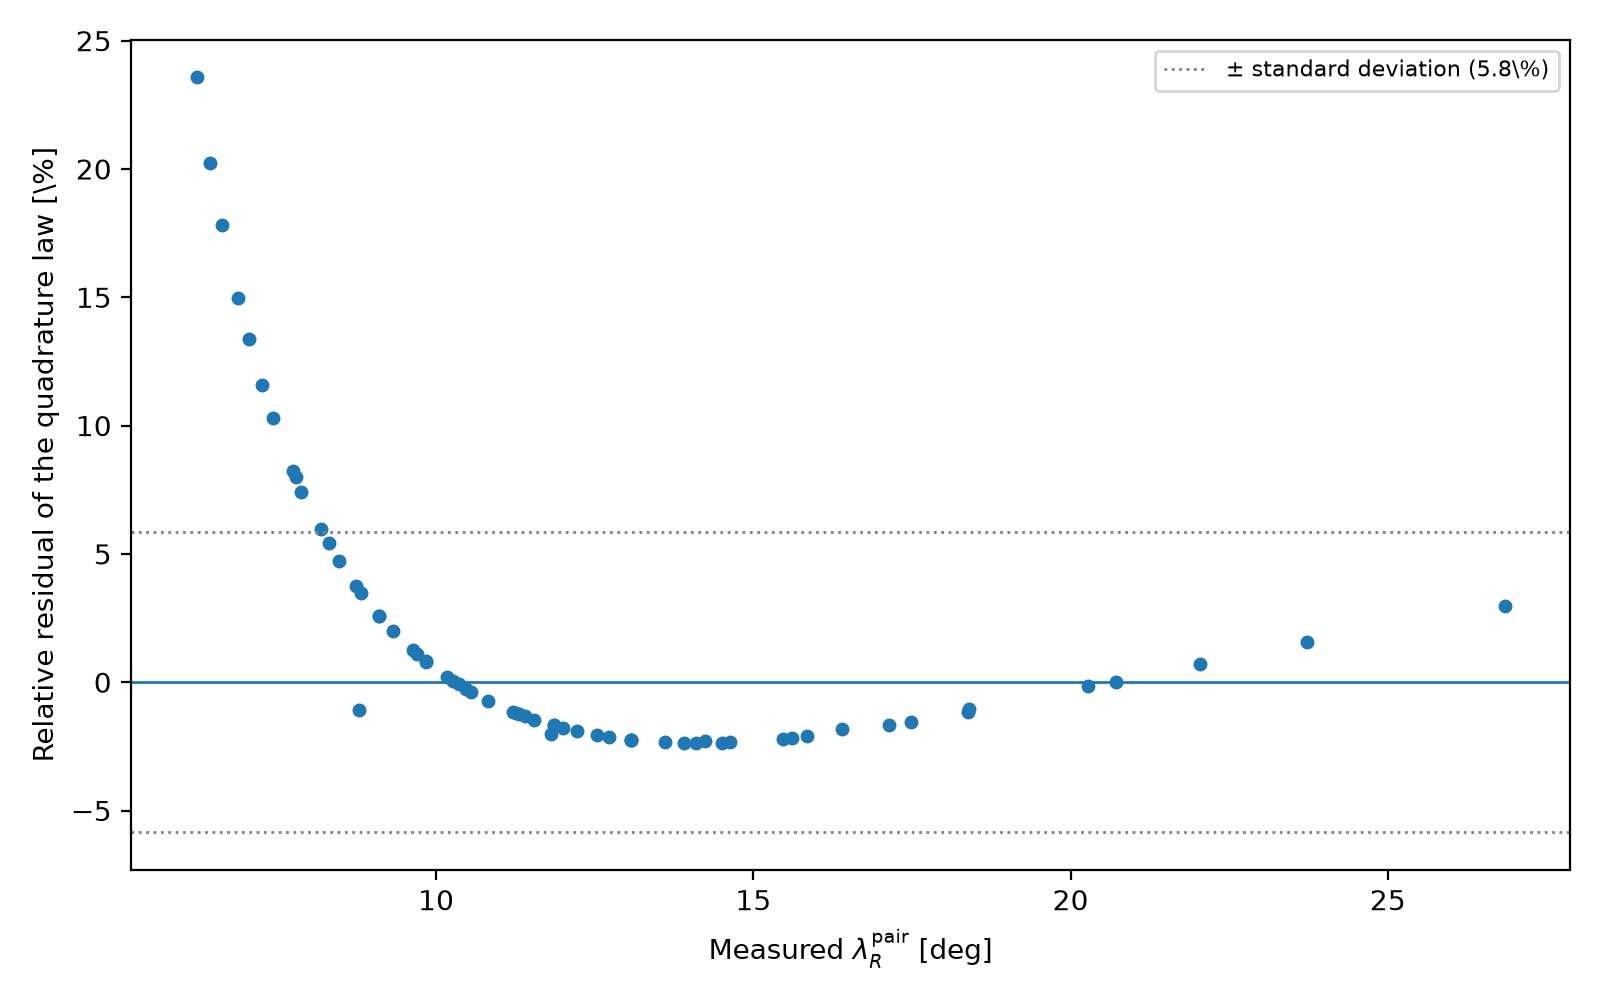
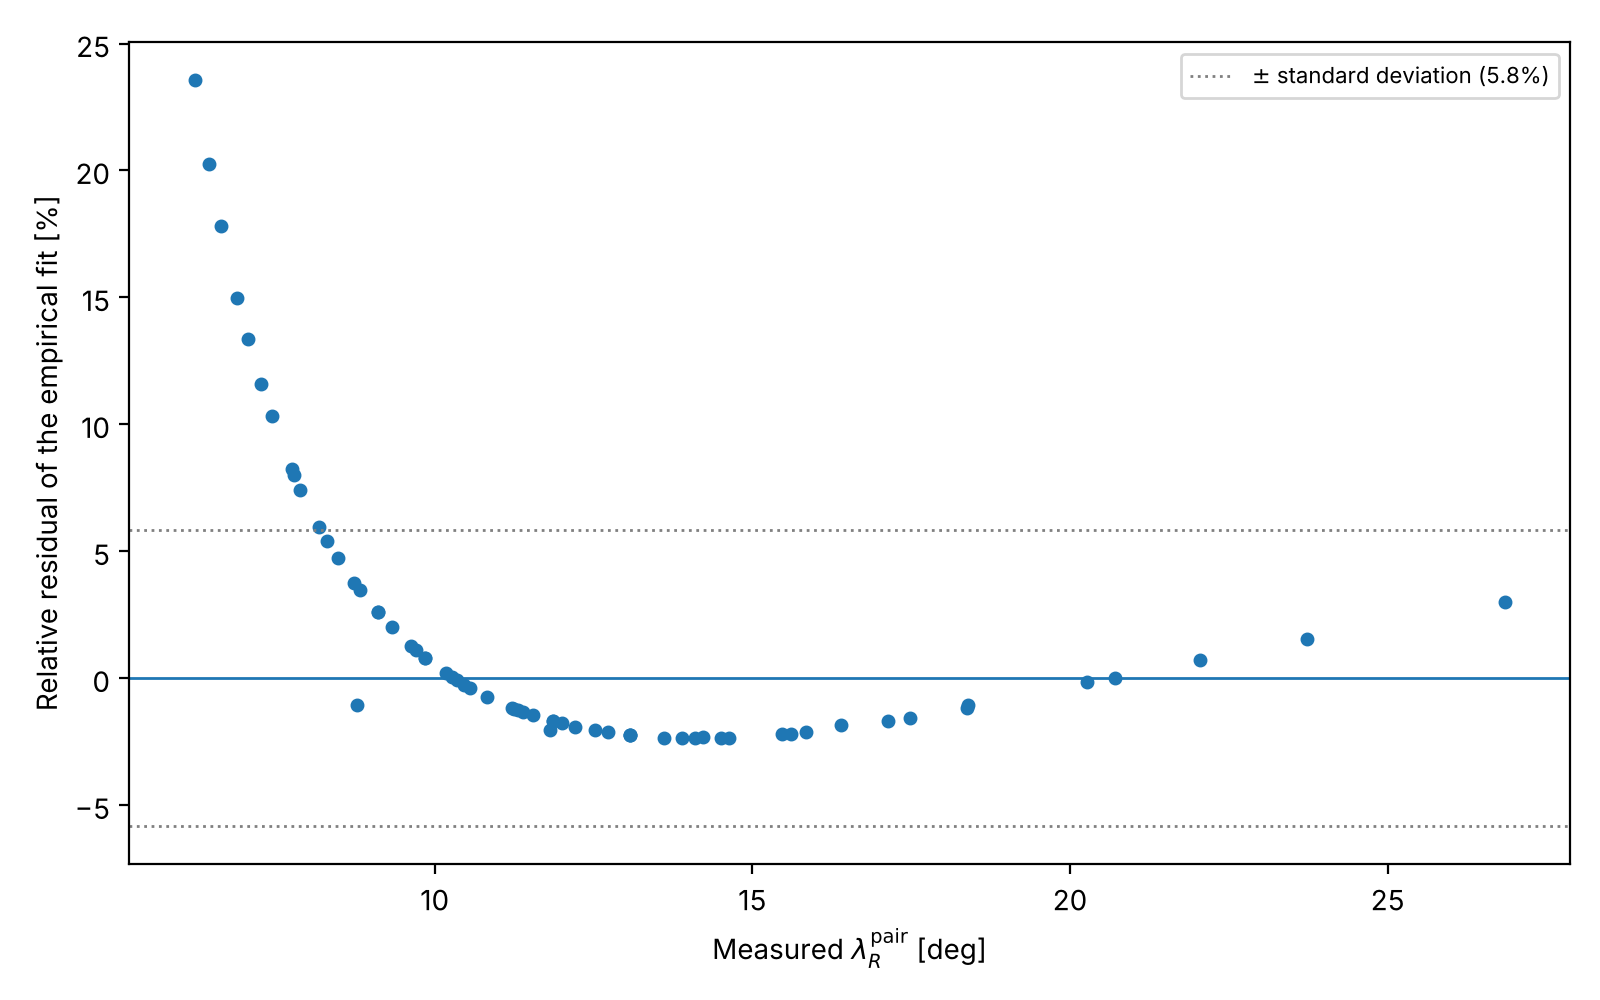
Align the scaling-law figure labels with the manuscript
Figure P2 now uses the wording of the manuscript's final Figure 8:
"empirical fit" with a "≃" sign instead of "quadrature law" with "=",
"one-to-one reference" instead of "one-to-one (pure transport)", and an
x-axis label "Transport scale λ_tr [deg]", since λ_tr is defined in
degrees in the manuscript. Figure P3's residual label follows suit, and
its literal "\%" (shown as a backslash outside maths mode) is now a
plain "%". The result tables are byte-identical after the rerun; only
these two figures change.

The inflow-memory report quotes the directly minimised smallest spectral
radius, 0.082, instead of the sampled-grid value 0.083.

Claude-Session: https://claude.ai/code/session_01PmgudpFb3qQz1S9TE53gMs

Changed region(s): [[0.0, 0.031, 1.0, 0.93], [0.4375, 0.93, 0.625, 0.961], [0.1875, 0.527, 0.2188, 0.558]]

diff --git a/parameter_space_analysis.py b/parameter_space_analysis.py
@@ -224,26 +224,28 @@ if __name__ == "__main__":
     plt.plot(lamR_est[good], lamR_map[good], "o", markersize=4,
              label="measured (adjoint kernel)")
     xs = np.linspace(0.0, np.nanmax(lamR_est) * 1.05, 200)
+    # Labels follow the manuscript's Figure 8: an empirical fit, and the
+    # angular transport scale expressed in degrees.
     plt.plot(xs, np.sqrt(C2 * xs**2 + w02), "--",
-             label=(fr"quadrature law: $(\lambda_R^{{\rm pair}})^2 = ({C_quad:.2f})^2\,\lambda_{{\rm tr}}^2"
+             label=(fr"empirical fit: $(\lambda_R^{{\rm pair}})^2 \simeq ({C_quad:.2f})^2\,\lambda_{{\rm tr}}^2"
                     fr" + ({w0_quad:.1f}^\circ)^2$"))
-    plt.plot(xs, xs, ":", linewidth=1, color="0.6", label="one-to-one (pure transport)")
-    plt.xlabel(r"Transport scale $\lambda_{\rm tr}=\sqrt{\eta/(2u_0R_\odot)}$ [deg]")
+    plt.plot(xs, xs, ":", linewidth=1, color="0.6", label="one-to-one reference")
+    plt.xlabel(r"Transport scale $\lambda_{\rm tr}$ [deg]")
     plt.ylabel(r"Measured $\lambda_R^{\rm pair}$ [deg]")
     plt.legend(fontsize=8)
     plt.tight_layout()
     plt.savefig(os.path.join(OUTDIR, "figP2_lambdaR_scaling.png"), dpi=200)
     plt.close()
 
-    # P3: relative residuals of the quadrature law
+    # P3: relative residuals of the empirical fit
     plt.figure(figsize=(8, 5))
     plt.plot(lamR_map[good], 100.0 * resid_quad, "o", markersize=4)
     plt.axhline(0.0, linewidth=1)
     plt.axhline(100.0 * scatter_quad, linestyle=":", linewidth=1, color="0.5",
-                label=fr"$\pm$ standard deviation ({100*scatter_quad:.1f}\%)")
+                label=fr"$\pm$ standard deviation ({100*scatter_quad:.1f}%)")
     plt.axhline(-100.0 * scatter_quad, linestyle=":", linewidth=1, color="0.5")
     plt.xlabel(r"Measured $\lambda_R^{\rm pair}$ [deg]")
-    plt.ylabel("Relative residual of the quadrature law [\\%]")
+    plt.ylabel("Relative residual of the empirical fit [%]")
     plt.legend(fontsize=8)
     plt.tight_layout()
     plt.savefig(os.path.join(OUTDIR, "figP3_scaling_residuals.png"), dpi=200)

diff --git a/docs/inflow_memory_coupling.md b/docs/inflow_memory_coupling.md
@@ -311,7 +311,7 @@ tilt omitted, τ = ∞). All values are in `published_configuration.csv`.
 | Period-doubling gain, D₀ | 3.352 | 3.335 |
 | Multiplier at D₀ = 2.05 / 2.50 / 3.20 | +0.890 / +0.117 / −0.823 | +0.879 / +0.146 / −0.845 |
 | Relaxation time at D₀ = 2.05 / 2.50 / 3.20 [cycles] | 8.57 / 0.47 / 5.15 | 7.77 / 0.52 / 5.92 |
-| Fastest relaxation | one step (multiplier 0 at D₀ = 2.578) | 0.40 cycles (smallest spectral radius 0.083, at D₀ = 2.565) |
+| Fastest relaxation | one step (multiplier 0 at D₀ = 2.578) | 0.40 cycles (smallest spectral radius 0.082, at D₀ = 2.564) |
 
 The scalar-map column is recomputed here and reproduces the values quoted
 in the manuscript's multi-cycle section. The complete field differs by 0.3
@@ -321,7 +321,10 @@ attractor begins its transition "near the corrected analytic boundary".
 The relaxation times differ by up to 15 per cent (5.92 rather than 5.15
 cycles at D₀ = 3.20). The complete field also has no gain at which
 perturbations vanish in one step: because part of each cycle's flux is
-unsettled, its leading multiplier never falls below 0.083 in modulus.
+unsettled, its leading multiplier never falls below 0.082 in modulus.
+(The table value, 0.0827, is the smallest over the sampled amplitudes; a
+direct minimisation, in the manuscript repository's
+`revisions/settled_dipole/` record, gives 0.0819 at D₀ = 2.564.)
 
 ## 5. Scalar remnant subtraction along a prescribed sequence
 
@@ -433,7 +436,7 @@ decision.
 2. **Two statements hold for the scalar map only.** The sentence "When
    m\* = 0, the linear perturbation vanishes after one step" does not carry
    over to the complete field, whose leading multiplier never falls below
-   0.083. Its relaxation times at D₀ = 2.05, 2.50 and 3.20 are 7.8, 0.52
+   0.082. Its relaxation times at D₀ = 2.05, 2.50 and 3.20 are 7.8, 0.52
    and 5.9 cycles, against the quoted 8.6, 0.47 and 5.2. A referee who asks
    how well the reduced map represents the full field would receive these
    numbers.
